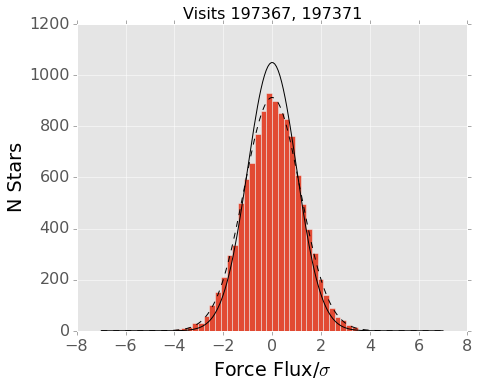
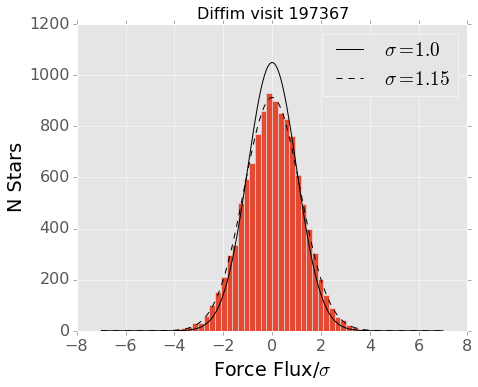
Assigned DMTN-006.

Changed region(s): [[0.3808, 0.0, 0.7615, 0.062], [0.7908, 0.093, 0.9372, 0.155], [0.7908, 0.186, 0.9372, 0.2171]]

diff --git a/README.rst b/README.rst
@@ -1,10 +1,10 @@
 ###########################################################################
-DMTN-999 Analysis of False Positives in the LSST Image Differencing Pipeine
+DMTN-006 False Positive Rates in the LSST Image Differencing Pipeline
 ###########################################################################
 
 An analysis of the false positives in Decam imaging data processed by the LSST pipeline.
 
-View this technote at http://dmtn-999.lsst.io or see a preview of the
+View this technote at http://dmtn-006.lsst.io or see a preview of the
 current version in `this repo`_
 
 .. _this repo: ./index.rst
@@ -23,8 +23,8 @@ You can clone this repository and build the technote locally with `Sphinx`_
 
 .. code-block:: bash
 
-   git clone https://github.com/lsst-dm/dmtn-999
-   cd dmtn-999
+   git clone https://github.com/lsst-dm/dmtn-006
+   cd dmtn-006
    pip install -r requirements.txt
    make html
 
@@ -39,7 +39,7 @@ A good primer on reStructuredText is available at http://docs.lsst.codes/en/late
 Remember that images and other types of assets should be stored in the ``_static/`` directory of this repository.
 See ``_static/README.rst`` for more information.
 
-The published technote at http://dmtn-999.lsst.io will be automatically rebuilt whenever you push your changes to the ``master`` branch on `GitHub <https://github.com/lsst-dm/dmtn-999>`_.
+The published technote at http://dmtn-006.lsst.io will be automatically rebuilt whenever you push your changes to the ``master`` branch on `GitHub <https://github.com/lsst-dm/dmtn-006>`_.
 
 Updating metadata
 =================

diff --git a/index.rst b/index.rst
@@ -199,15 +199,23 @@ The analysis of the photometry on the high latitude image shows some modest
 noise misestimates, but this alone is not sufficient to account for the large
 number of detections we see. It appears necessary for some additional source
 of either noise or misestimation of the noise to be present to cause this
-excess of detections. 
+excess of detections. An additional check on this is to perform force
+photometry on random blank-sky locations in the difference image, which will
+measure any correlated noise introduced by the convolution and warping of the
+template image. The result from this test is shown in :numref:`fig-force-random-phot`.
+The scatter is indeed enhanced over the expected unit Gaussian,
+but only by the same 15\% that was measured earlier in the original exposures.
+There again does not appear to be the sufficient noise to account for the
+several thousand Dia sources per square degree.
 
 .. figure:: /_static/sec4_force_random_phot_v197367.png
     :name: fig-force-random-phot
 
     Force photometry on random locations in the difference image. This
-    measures the noise on the same size scale as the PSF. The pipeline output
-    underestimates the noise by about 15%, same as in the original input
-    images.
+    measures the noise on the same size scale as the PSF. The reported
+    uncertainties are about 15% smaller than the observed scatter. This is
+    consistent with simply propagating the variance plane provided by the
+    Community Pipeline, without any additional image differencing noise.
 
 
 Conclusions
